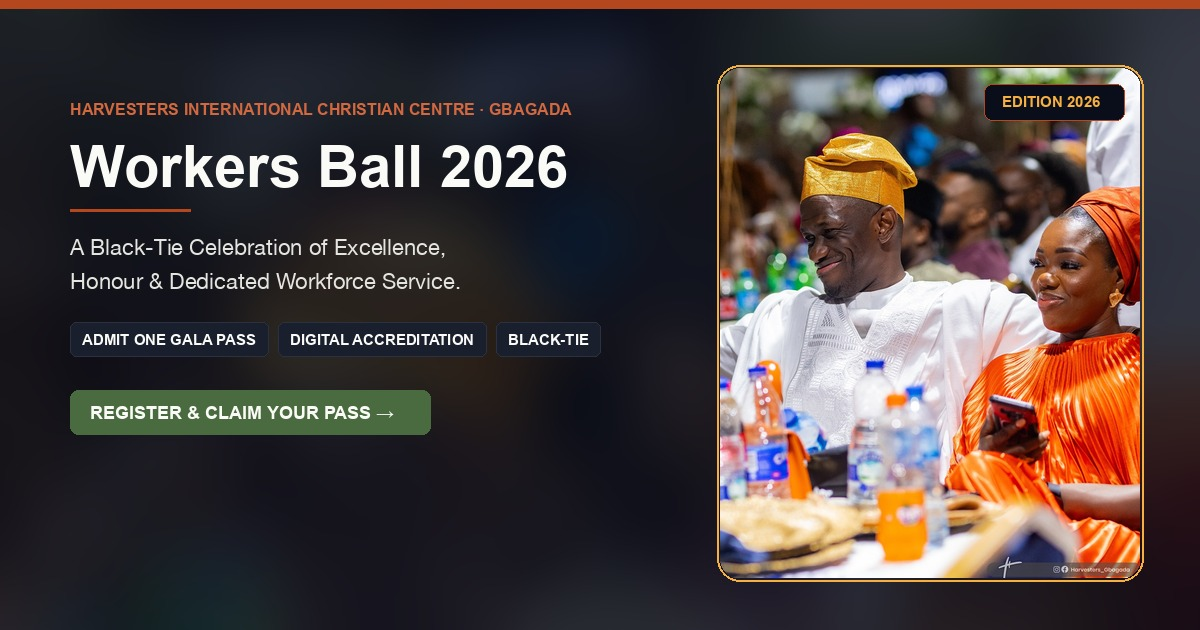
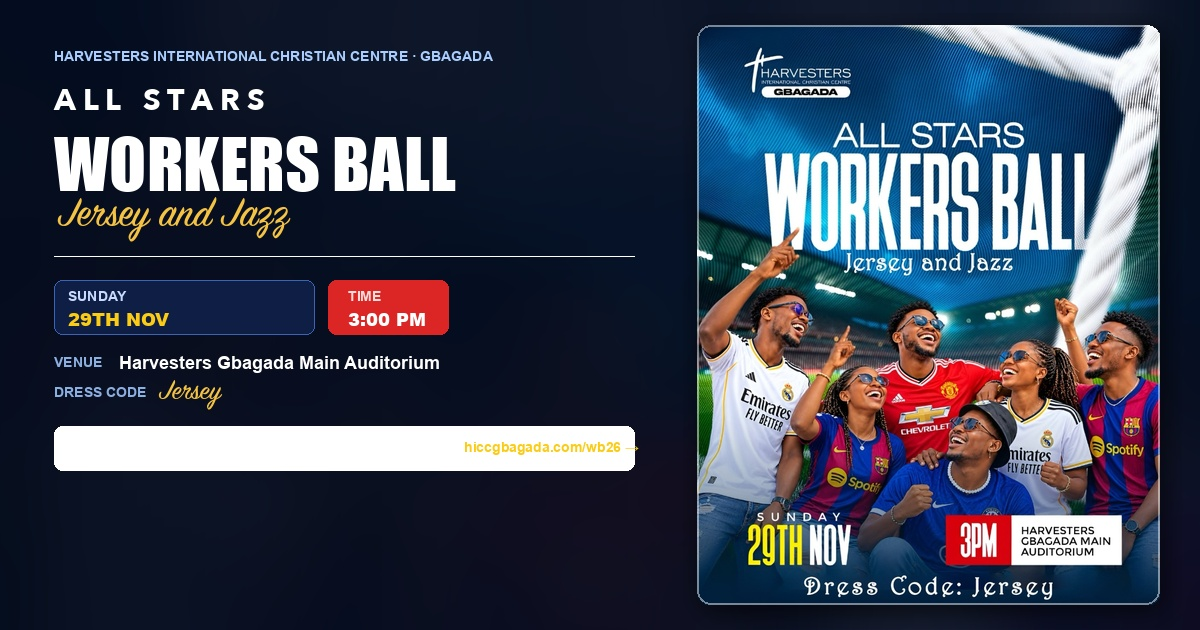
feat(wb26): apply official All Stars Jersey and Jazz graphics, theme, and date

diff --git a/src/pages/WorkersBallRegistration.jsx b/src/pages/WorkersBallRegistration.jsx
@@ -403,7 +403,15 @@ const YEAR_PHOTOS = {
       durationMs: 3500,
     },
   ],
-  2026: [],
+  2026: [
+    {
+      type: "image",
+      src: "/wb26/official-flyer.jpg",
+      alt: "Harvesters Gbagada Workers Ball 2026 — All Stars: Jersey and Jazz",
+      label: "All Stars: Jersey & Jazz",
+      durationMs: 7000,
+    },
+  ],
 };
 
 /**
@@ -848,6 +856,11 @@ function IntroCurtain({ onEnter }) {
                     {currentYear}
                   </span>
                 </h1>
+                {currentYear === 2026 && (
+                  <p className="mt-2 text-sm sm:text-base font-medium text-[#F6B042] tracking-wide drop-shadow-[0_2px_12px_rgba(0,0,0,0.85)]">
+                    All Stars: Jersey &amp; Jazz &middot; Sunday 29th Nov &middot; 3PM
+                  </p>
+                )}
               </div>
 
               {/* Story-style individual slide progress pills */}
@@ -1044,6 +1057,13 @@ function CeremonialPassCard({
               <p className="text-xs text-ink-400 mt-0.5">
                 Admit One &middot; Accredited Workforce Pass
               </p>
+              <div className="mt-2 flex flex-wrap items-center gap-x-2 gap-y-1 text-2xs font-mono text-ink-300">
+                <span className="text-[#F6B042] font-semibold">All Stars: Jersey &amp; Jazz</span>
+                <span>&middot;</span>
+                <span>Sun 29 Nov &middot; 3:00 PM</span>
+                <span>&middot;</span>
+                <span className="text-cream font-medium">Dress Code: Jersey</span>
+              </div>
             </div>
             <span className="inline-flex items-center gap-1.5 rounded bg-forest/20 border border-forest/40 px-2.5 py-1 text-2xs font-mono uppercase tracking-tag text-cream shrink-0">
               <span className="w-1.5 h-1.5 rounded-full bg-forest animate-live-pulse" />
@@ -1684,7 +1704,53 @@ export default function WorkersBallRegistration() {
                 STAGE 1A: SEARCH BY NAME
                ============================================================ */}
             {stage === "search" && (
-              <section className="wb26-panel qc-card p-6 sm:p-8 space-y-6">
+              <div className="space-y-6">
+                {/* Official 2026 Gala Event Card */}
+                <aside
+                  aria-label="Event Details"
+                  className="wb26-panel overflow-hidden rounded-2xl border border-ink-800 bg-[#0A0E1A] text-cream shadow-xl"
+                >
+                  <div className="flex flex-col sm:flex-row items-center sm:items-stretch">
+                    <div className="w-full sm:w-44 md:w-48 shrink-0 bg-black/40 flex items-center justify-center p-3 border-b sm:border-b-0 sm:border-r border-ink-800">
+                      <img
+                        src="/wb26/official-flyer.jpg"
+                        alt="Harvesters Gbagada Workers Ball 2026: All Stars Jersey and Jazz"
+                        className="w-full h-auto max-h-56 sm:max-h-none object-cover rounded-lg shadow-md select-none"
+                      />
+                    </div>
+                    <div className="p-5 sm:p-6 flex-1 flex flex-col justify-between space-y-4">
+                      <div>
+                        <div className="inline-flex items-center gap-1.5 text-2xs font-mono uppercase tracking-widest text-[#F6B042] font-semibold mb-1.5">
+                          <span className="w-1.5 h-1.5 rounded-full bg-[#F6B042] animate-pulse" />
+                          <span>Harvesters Gbagada Gala</span>
+                        </div>
+                        <h2 className="text-xl sm:text-2xl font-bold tracking-tight text-white">
+                          All Stars Workers Ball
+                        </h2>
+                        <p className="text-sm font-semibold text-[#F6B042] mt-0.5">
+                          Theme: Jersey &amp; Jazz
+                        </p>
+                      </div>
+
+                      <div className="grid grid-cols-2 gap-3 pt-3 border-t border-ink-800/80 text-xs">
+                        <div>
+                          <span className="block text-2xs font-mono uppercase tracking-wider text-ink-400">Date &amp; Time</span>
+                          <span className="font-semibold text-cream">Sun 29th Nov &middot; 3PM</span>
+                        </div>
+                        <div>
+                          <span className="block text-2xs font-mono uppercase tracking-wider text-ink-400">Dress Code</span>
+                          <span className="font-semibold text-[#F6B042]">Jersey</span>
+                        </div>
+                        <div className="col-span-2">
+                          <span className="block text-2xs font-mono uppercase tracking-wider text-ink-400">Venue</span>
+                          <span className="font-medium text-ink-200">Main Auditorium, Harvesters Gbagada</span>
+                        </div>
+                      </div>
+                    </div>
+                  </div>
+                </aside>
+
+                <section className="wb26-panel qc-card p-6 sm:p-8 space-y-6">
                 <div className="space-y-1.5">
                   <span className="qc-eyebrow">Step 01 &middot; Workforce Lookup</span>
                   <h2 className="text-xl font-semibold text-ink-900">
@@ -1756,6 +1822,7 @@ export default function WorkersBallRegistration() {
                   )}
                 </form>
               </section>
+              </div>
             )}
 
             {/* ============================================================

diff --git a/src/utils/pageMeta.js b/src/utils/pageMeta.js
@@ -25,14 +25,14 @@ export const DEFAULT_META = {
 const WB26_META = {
   title: "Workers Ball 2026 · Harvesters Gbagada",
   description:
-    "Harvesters International Christian Centre, Gbagada Campus — Workers Ball 2026. A black-tie celebration of honour, excellence, and dedicated service. Register and claim your official Gala Pass.",
+    "Harvesters International Christian Centre, Gbagada Campus — All Stars Workers Ball 2026: Jersey and Jazz. Sunday 29th November, 3PM at Harvesters Gbagada Main Auditorium. Dress Code: Jersey. Register and claim your official Gala Pass.",
   ogTitle: "Workers Ball 2026 · Harvesters Gbagada",
   ogDescription:
-    "A Black-Tie Celebration of Excellence, Honour & Dedicated Service. Register and claim your official Workers Ball 2026 Gala Pass.",
+    "All Stars Workers Ball 2026: Jersey and Jazz. Sunday 29th November, 3PM at Harvesters Gbagada Main Auditorium. Dress Code: Jersey. Register and claim your official Gala Pass.",
   ogImage: "/wb26-og.jpg",
   ogImageWidth: "1200",
   ogImageHeight: "630",
-  ogImageAlt: "Workers Ball 2026 · Harvesters Gbagada",
+  ogImageAlt: "All Stars Workers Ball 2026 · Jersey and Jazz · Harvesters Gbagada",
   twitterCard: "summary_large_image",
   themeColor: "#0A0E1A",
 };
@@ -40,10 +40,10 @@ const WB26_META = {
 const WB26_SCANNER_META = {
   title: "Accreditation Scanner · Workers Ball 2026",
   description:
-    "Official accreditation scanner and check-in desk for Workers Ball 2026 at Harvesters Gbagada.",
+    "Official accreditation scanner and check-in desk for All Stars Workers Ball 2026: Jersey and Jazz at Harvesters Gbagada.",
   ogTitle: "Accreditation Scanner · Workers Ball 2026",
   ogDescription:
-    "Official accreditation scanner and check-in desk for Workers Ball 2026 at Harvesters Gbagada.",
+    "Official accreditation scanner and check-in desk for All Stars Workers Ball 2026: Jersey and Jazz at Harvesters Gbagada.",
   ogImage: "/wb26-og.jpg",
   ogImageWidth: "1200",
   ogImageHeight: "630",
@@ -55,10 +55,10 @@ const WB26_SCANNER_META = {
 const WB26_ADMIN_META = {
   title: `Workers Ball 2026 Tracking · ${APP_NAME}`,
   description:
-    "Registration and live attendance tracking dashboard for Workers Ball 2026 at Harvesters Gbagada.",
+    "Registration and live attendance tracking dashboard for All Stars Workers Ball 2026: Jersey and Jazz at Harvesters Gbagada.",
   ogTitle: `Workers Ball 2026 Tracking · ${APP_NAME}`,
   ogDescription:
-    "Registration and live attendance tracking dashboard for Workers Ball 2026 at Harvesters Gbagada.",
+    "Registration and live attendance tracking dashboard for All Stars Workers Ball 2026: Jersey and Jazz at Harvesters Gbagada.",
   ogImage: "/wb26-og.jpg",
   ogImageWidth: "1200",
   ogImageHeight: "630",

diff --git a/src/utils/workersBallPass.js b/src/utils/workersBallPass.js
@@ -87,17 +87,21 @@ export async function downloadWorkersBallPassPng({
   // Left side content: Eyebrow
   ctx.fillStyle = "#D26840";
   ctx.font = "600 12px ui-monospace, SFMono-Regular, Menlo, monospace";
-  ctx.fillText("HARVESTERS INTERNATIONAL CHRISTIAN CENTRE · GBAGADA", cardX + 44, cardY + 56);
+  ctx.fillText("HARVESTERS INTERNATIONAL CHRISTIAN CENTRE · GBAGADA", cardX + 44, cardY + 54);
 
   // Main Event Title
   ctx.fillStyle = "#FAFAF7";
-  ctx.font = "700 42px -apple-system, BlinkMacSystemFont, 'Segoe UI', sans-serif";
-  ctx.fillText("Workers Ball 2026", cardX + 44, cardY + 108);
+  ctx.font = "700 38px -apple-system, BlinkMacSystemFont, 'Segoe UI', sans-serif";
+  ctx.fillText("Workers Ball 2026", cardX + 44, cardY + 100);
 
-  // Subtitle
+  // Official Theme & Details
+  ctx.fillStyle = "#F6B042";
+  ctx.font = "700 15px -apple-system, BlinkMacSystemFont, 'Segoe UI', sans-serif";
+  ctx.fillText("ALL STARS: JERSEY & JAZZ", cardX + 44, cardY + 126);
+
   ctx.fillStyle = "#9A9A95";
-  ctx.font = "400 15px -apple-system, BlinkMacSystemFont, 'Segoe UI', sans-serif";
-  ctx.fillText("A Night of Honour, Excellence & Celebration · Official Admit One Pass", cardX + 44, cardY + 138);
+  ctx.font = "500 12px ui-monospace, SFMono-Regular, Menlo, monospace";
+  ctx.fillText("SUN 29 NOV · 3:00 PM · GBAGADA MAIN AUDITORIUM · DRESS CODE: JERSEY", cardX + 44, cardY + 148);
 
   // Hairline horizontal rule
   ctx.strokeStyle = "#1A1F2E";
